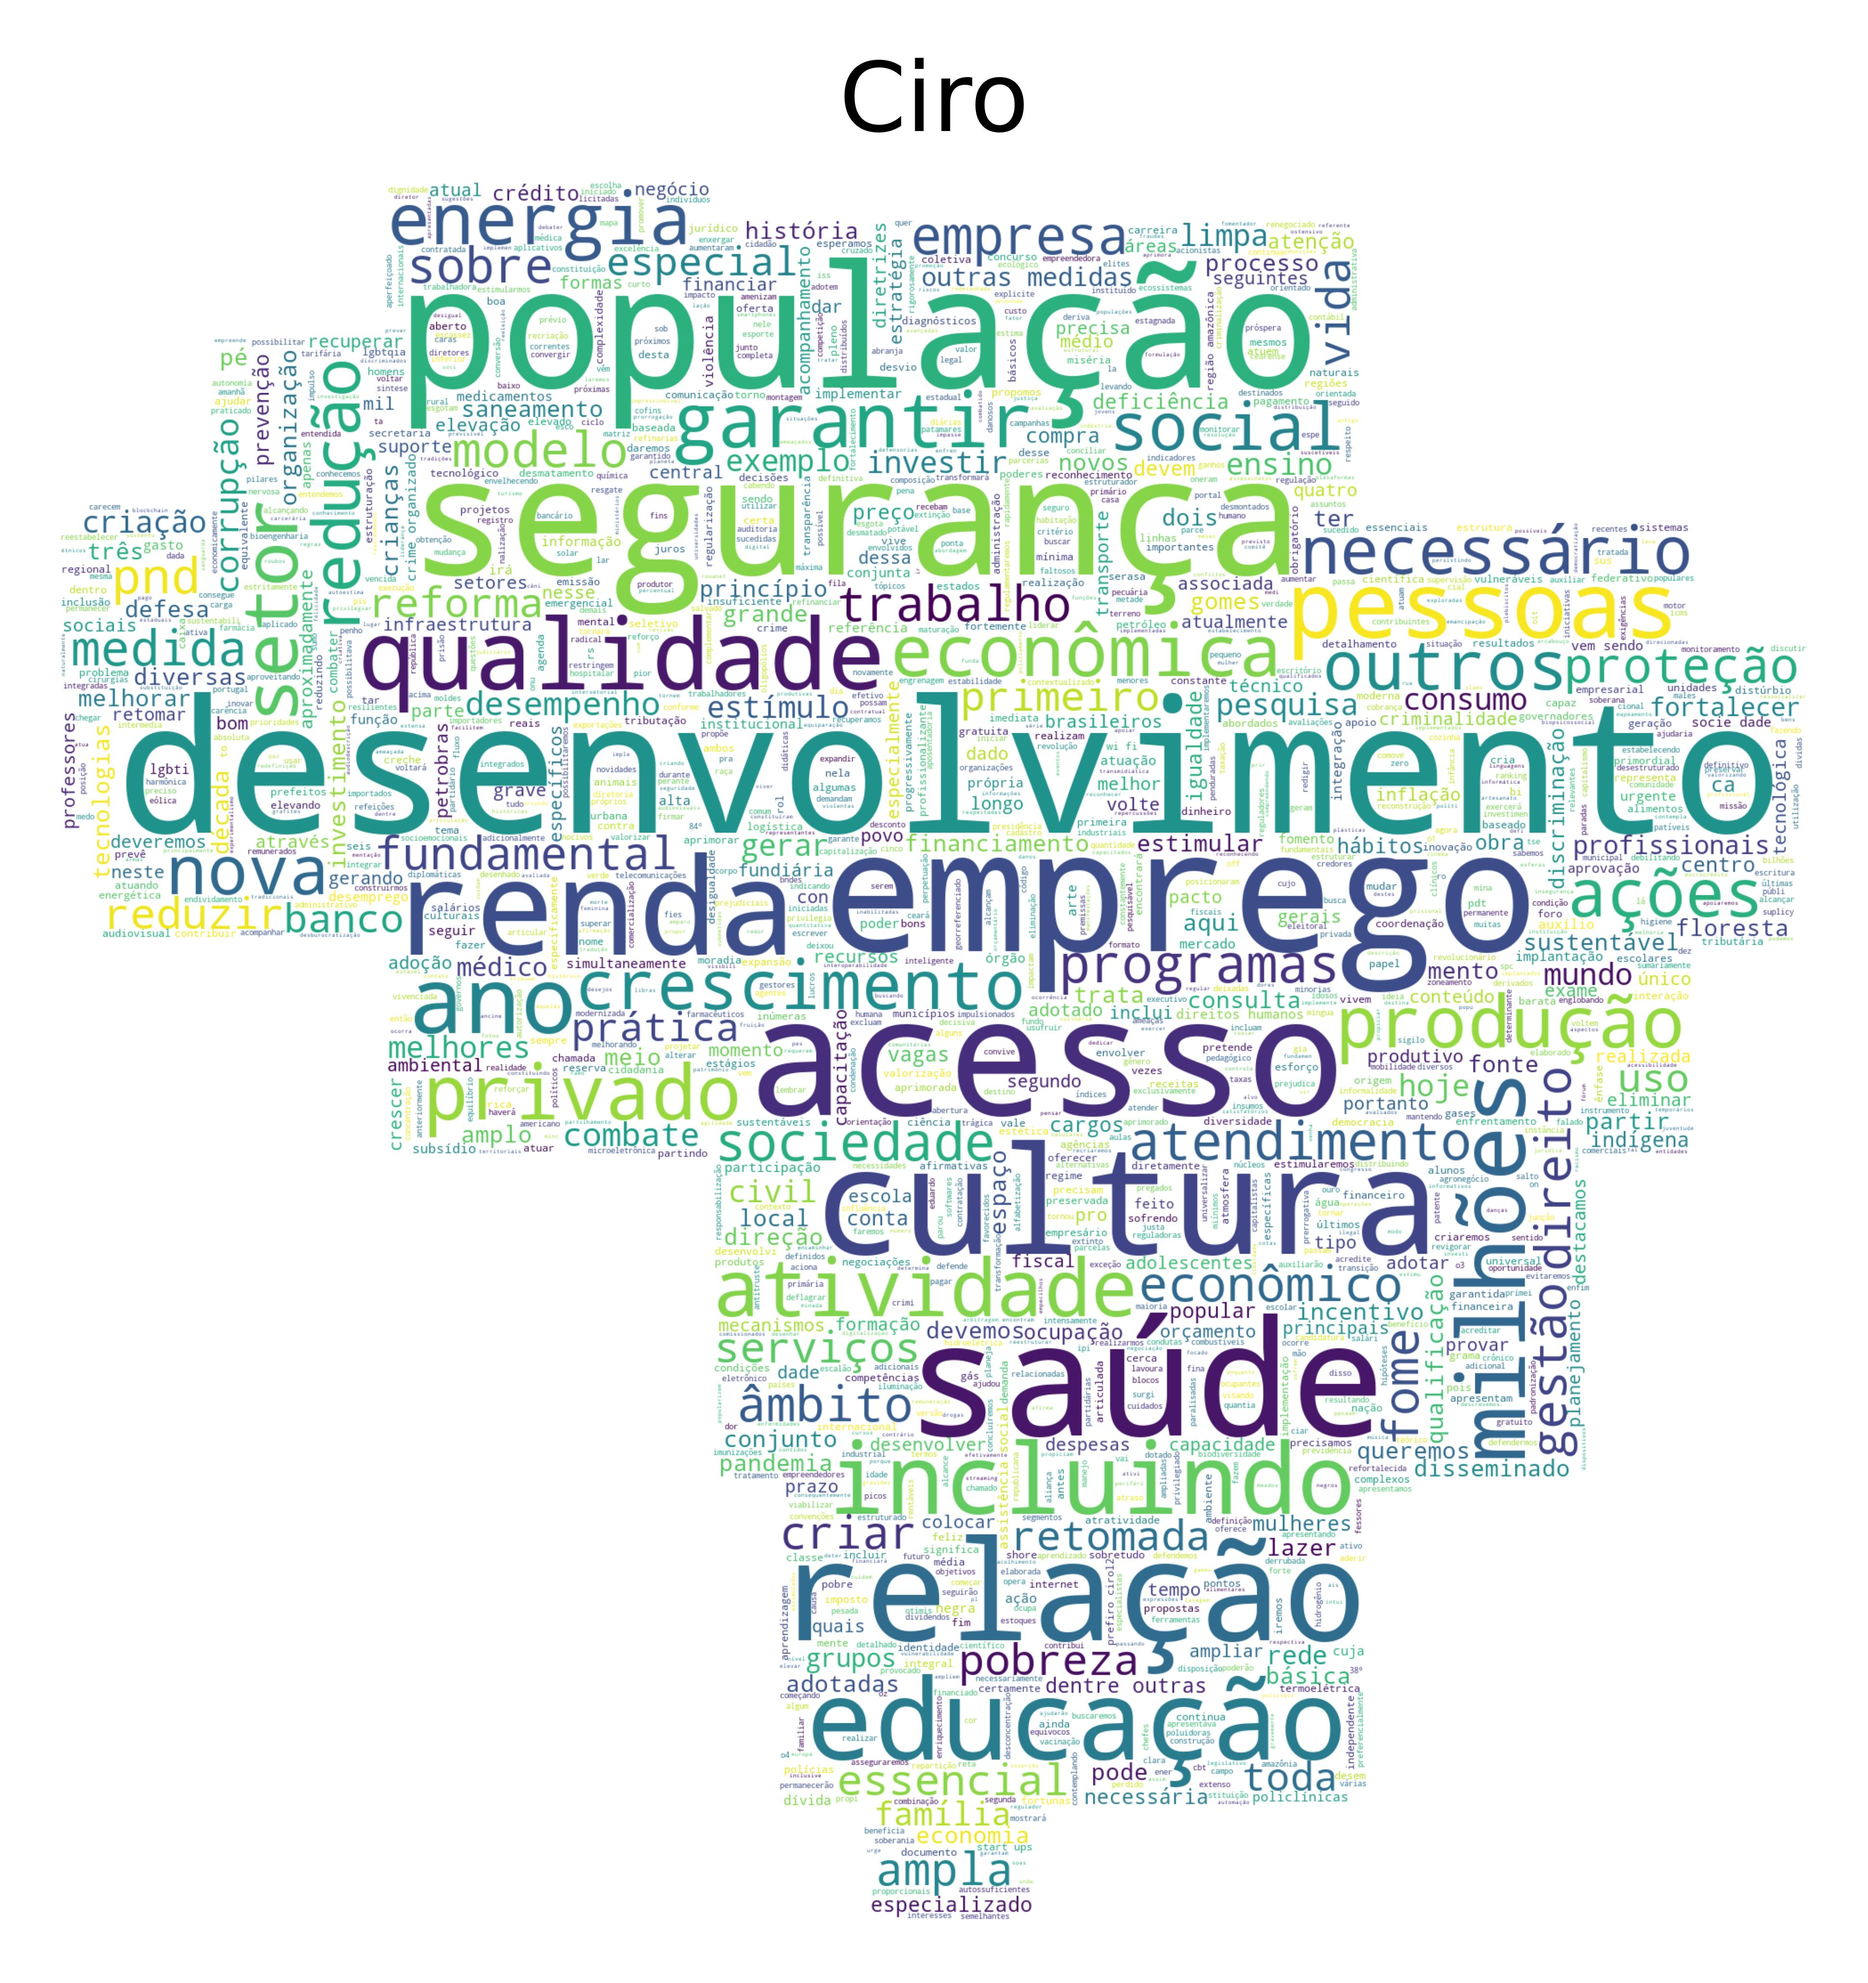
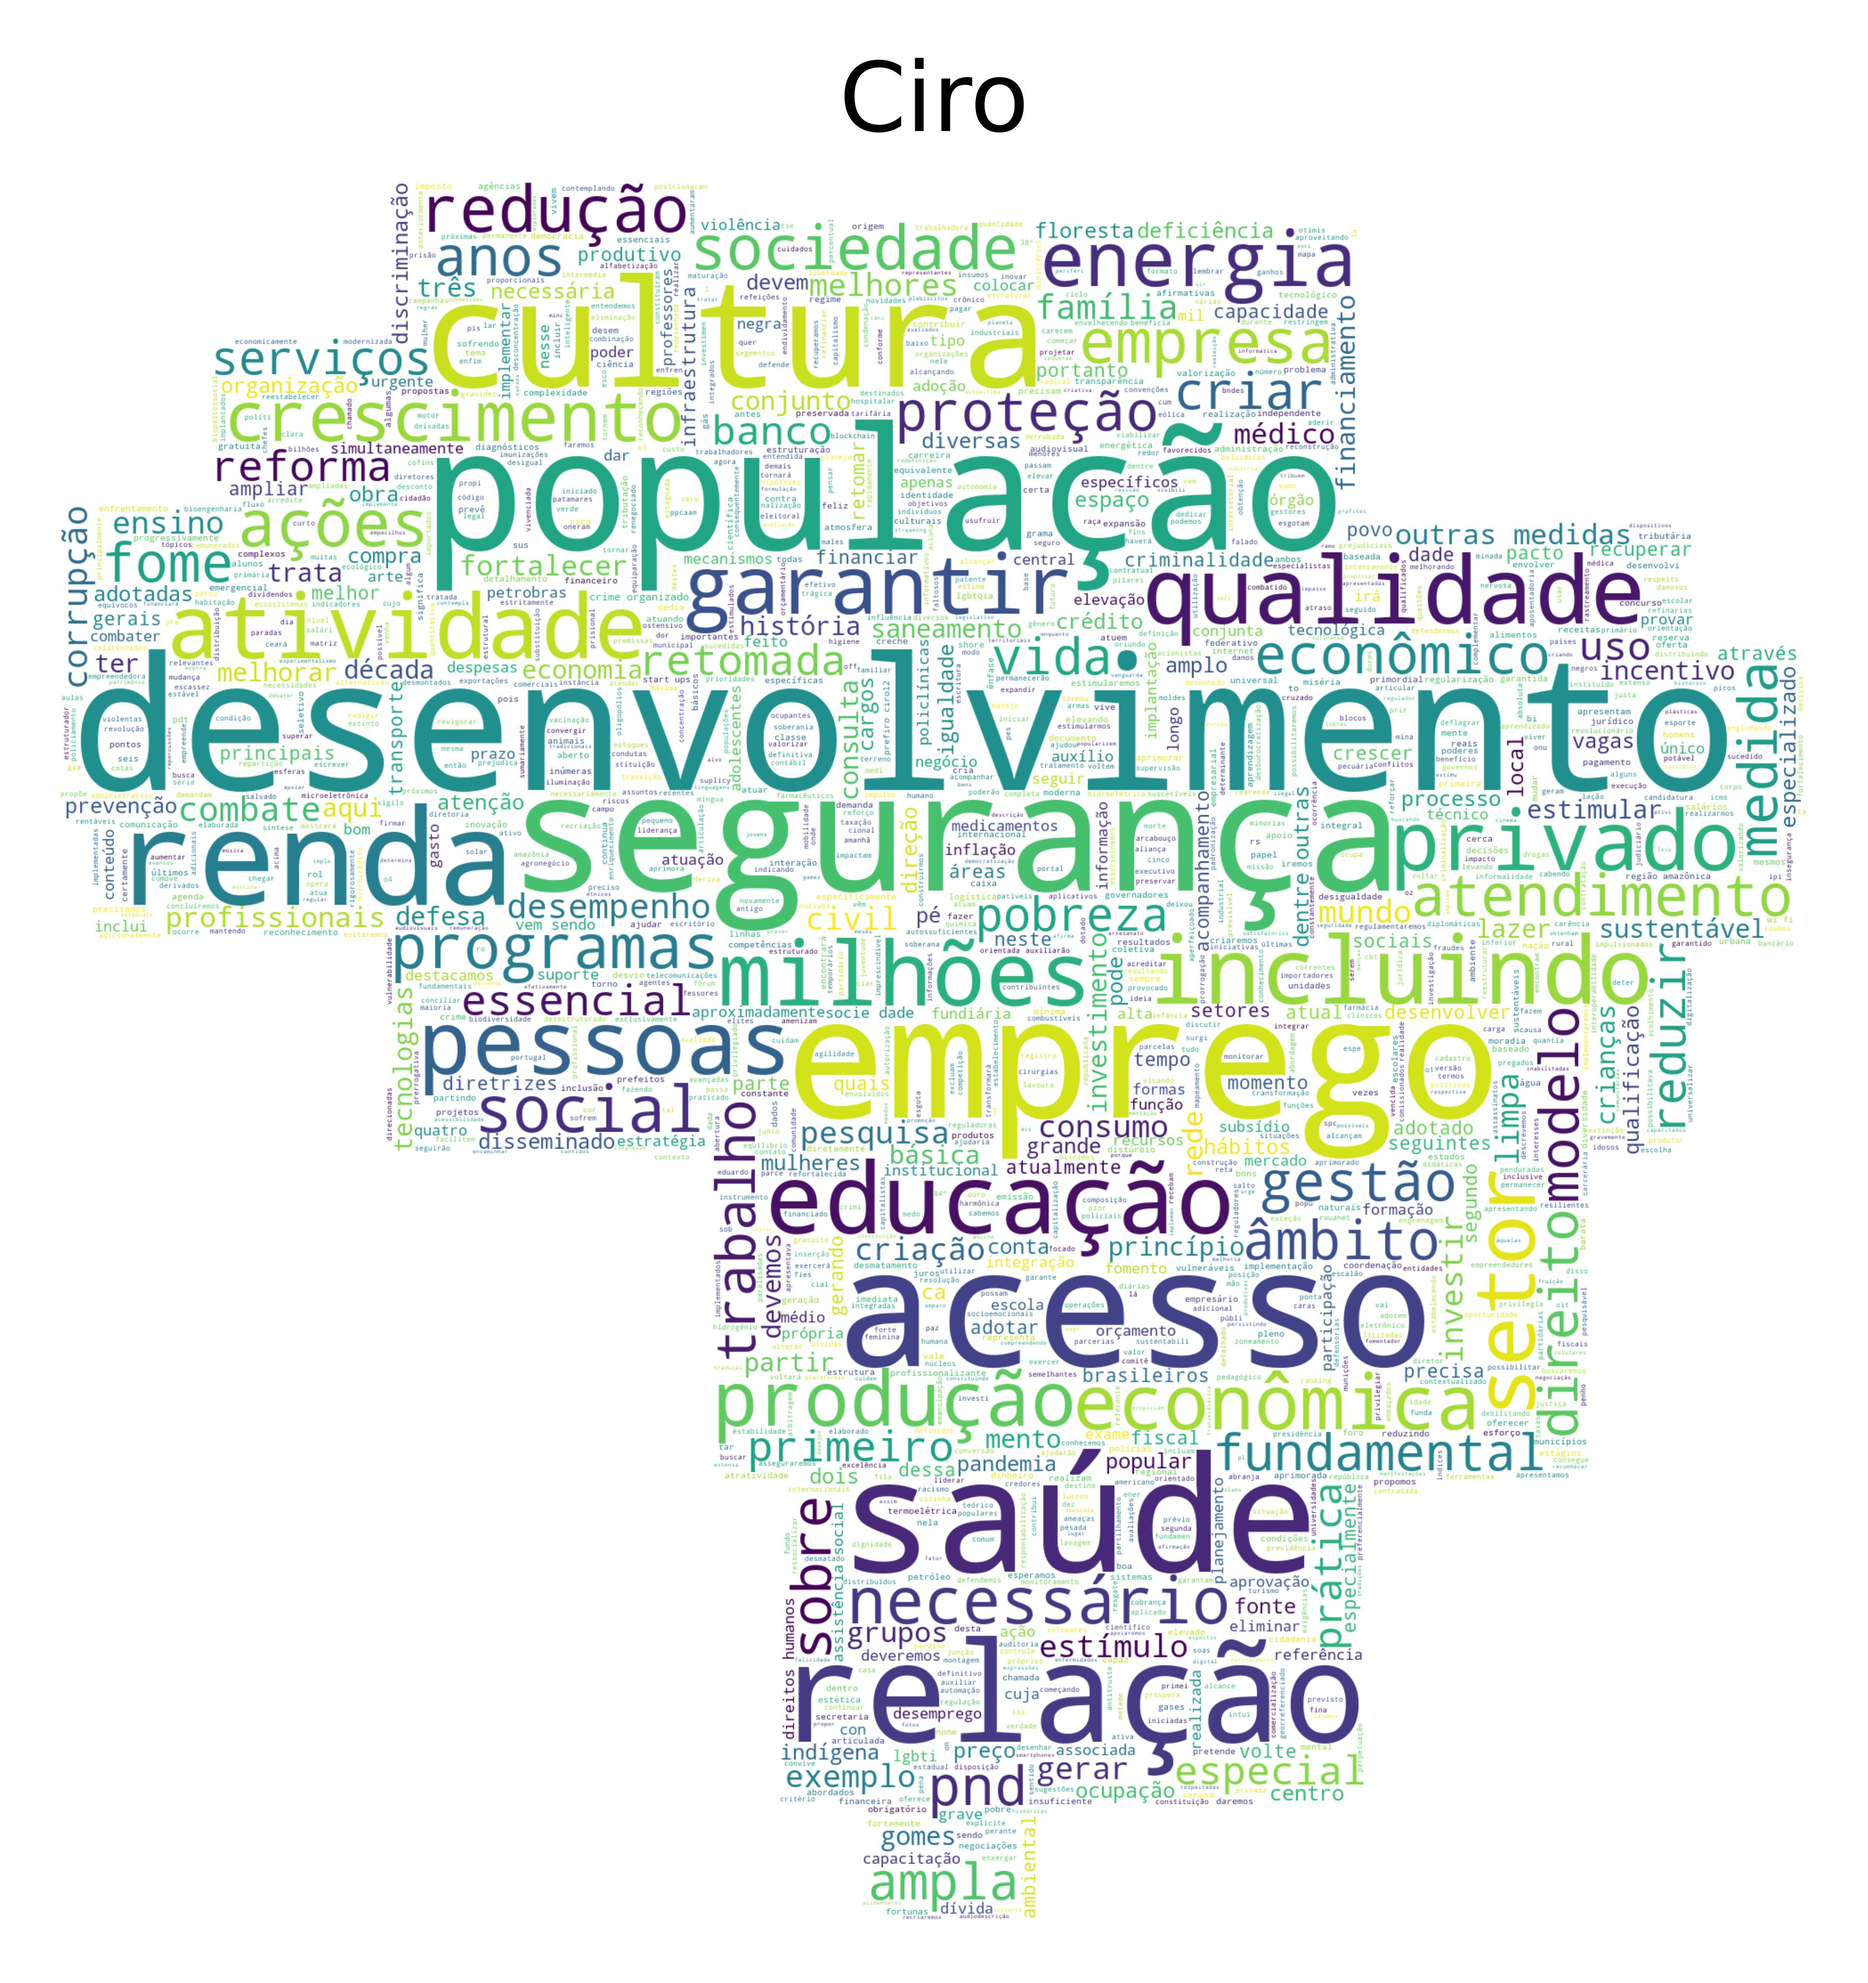
Atualização de Stop Words e Candidatos

diff --git a/planos_de_governo.py b/planos_de_governo.py
@@ -30,7 +30,7 @@ def pdf_kwd(file):
 
 
 # List of Candidates to analyse
-candidates = ['soraya', 'simone', 'lula', 'bolsonaro', 'felipe davila', 'ciro']
+candidates = ['soraya', 'simone', 'lula', 'bolsonaro', 'felipe', 'ciro']
 
 # Read files
 plan = {}
@@ -49,7 +49,7 @@ stop_words = [
     'nao', 'sim', 'novo', 'proposta', 'federal', 'plano', 'se',
     'bolsenaro', 'importante', 'raya', 'thronicke', 'tebet', 'mara',
     'gabrilli', 'geraldo', 'alckmin', 'tiago', 'mitraud', 'vice',
-    'braga', 'netto', 'ana', 'paula', 'mattos', 'ndo', 'gestdo', 'tanto', 'ao', 'alem', 'além', 'já', 'ja', 'sao', 'são', 'sdo', 'cada', 'país', 'deverá', 'política', 'forma', 'bem', 'mal', 'vamos', 'pessoa', 'deverão', 'projeto', 'público', 'políticas', 'pública', 'públicas', 'públicos', 'implantar', 'meta', 'promover', 'sobretudo', 'toda', 'ss', 'meio'
+    'braga', 'netto', 'ana', 'paula', 'mattos', 'ndo', 'gestdo', 'tanto', 'ao', 'alem', 'além', 'já', 'ja', 'sao', 'são', 'sdo', 'cada', 'país', 'deverá', 'política', 'forma', 'bem', 'mal', 'vamos', 'pessoa', 'deverão', 'projeto', 'público', 'políticas', 'pública', 'públicas', 'públicos', 'implantar', 'meta', 'promover', 'sobretudo', 'toda', 'ss', 'meio', 'promover', 'hoje', 'ainda', 'fim', 'vez', 'desse', 'pro', 'ção', 'dado', 'outros', 'ano', 'nova', 'queremos', 'novos', 'novas'
 ] + candidates + list(string.ascii_lowercase) + stopwords.words('portuguese') + ['(', ')', ';', ':', '[', ']', ',']
 
 
